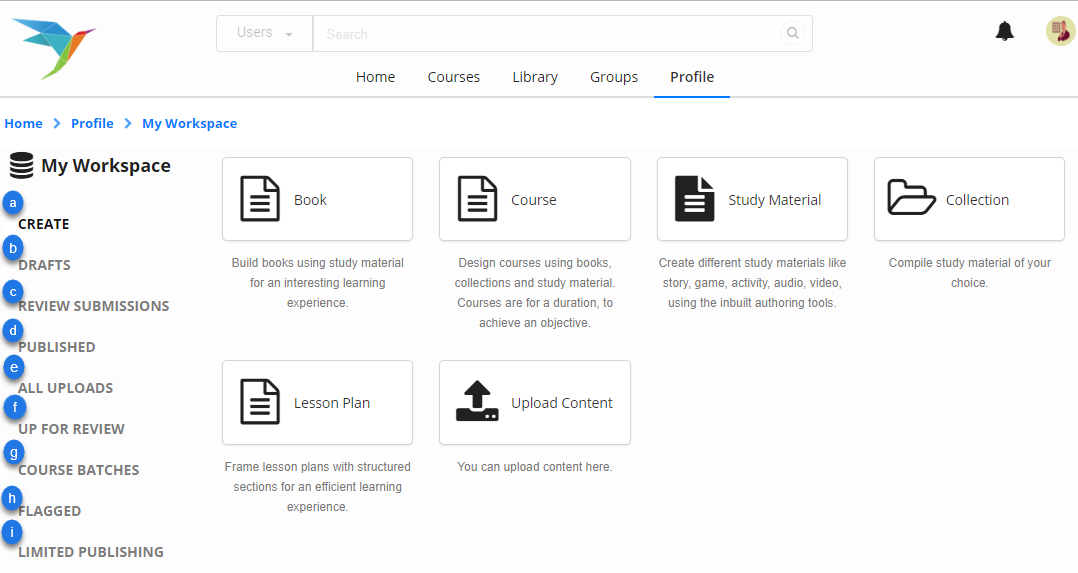
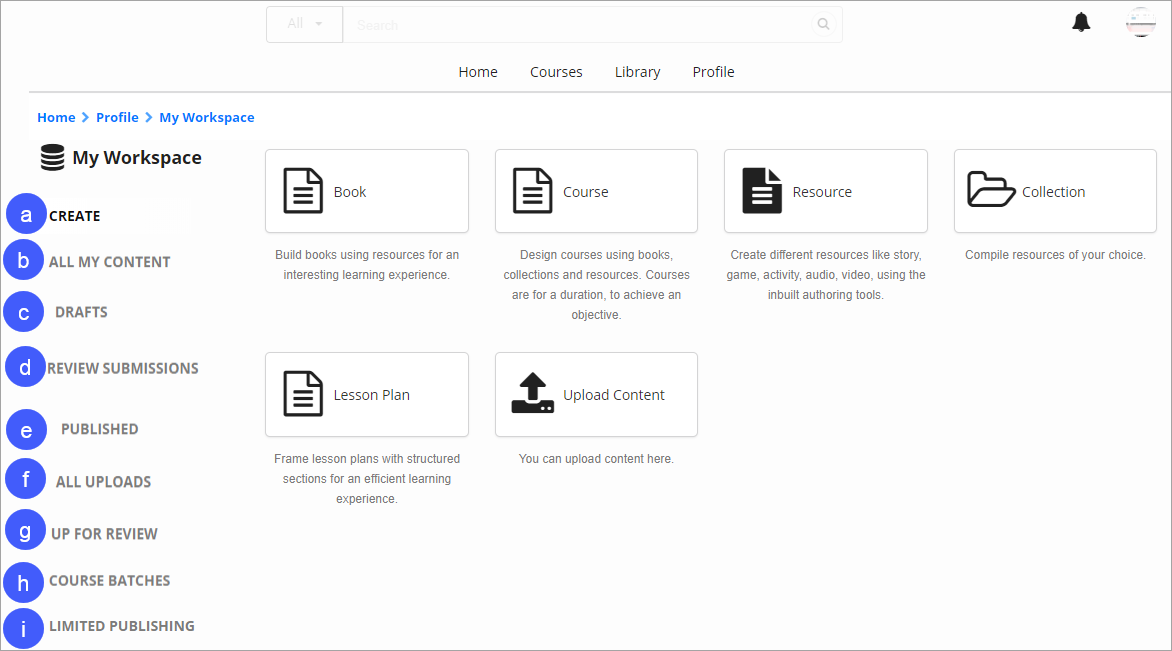
all my content feature added to workspace

diff --git a/pages/features-documentation/workspace.md b/pages/features-documentation/workspace.md
@@ -41,9 +41,22 @@ The workspace interface varies based on the role assigned to the user. For insta
     <th style="width:65%;">Screen</th>
   </tr>
   <tr>
-    <td>In your Workspace you can: <br>a. Create Book, Course, Study material, Collection, Lesson plan <br>b. View content drafts which are not send for review <br>c. View list of content submitted for review <br>d. View published content <br>e. View all uploaded content <br>f. View list of content submitted for review. This option is available only for a content reviewer <br>g. View all the course batches you are enrolled in <br>h. View all flagged content. This option is available only for a flag content reviewer <br>i. View list of content that which have been shared to a specific audience. To read more on limited sharing feature, refer refer <a href="features-documentation/limitedpublishnshare" target="_blank">Limited Publishing and Sharing</a>
+    <td>In your Workspace you can: <br>a. Create Book, Course, Study material, Collection, Lesson plan <br>b. View list of content created <br>c. View content drafts which are not send for review <br>d. View list of content submitted for review <br>e. View published content <br>f. View all uploaded content <br>g. View list of content submitted for review. This option is available only for a content reviewer <br>h. View all the course batches you are enrolled in <br>i. View list of content that which have been shared to a specific audience. To read more on limited sharing feature, refer refer <a href="features-documentation/limitedpublishnshare" target="_blank">Limited Publishing and Sharing</a>
     </td>
     <td><img src="pages/features-documentation/images/workspace/workspace1.png"></td>
   </tr>
   </table>
   
+#### Searching and Deleting content
+<table>
+  <tr>
+    <th style="width:35%;">Step</th>
+    <th style="width:65%;">Screen</th>
+  </tr>
+  <tr>
+  <td>1. Click <b>All My Content</b> to view list of all the content you have created <br>2. Type to search a content from the list on the search bar<br>3. Click <b>Delete</b> icon to the delete the content from your workspace <br><b>Note:</b> Content creator can delete only content created by them
+  </td>
+    <td><img src="pages/features-documentation/images/workspace/allmycontent.png"></td>
+  </tr>
+  </table>
+
